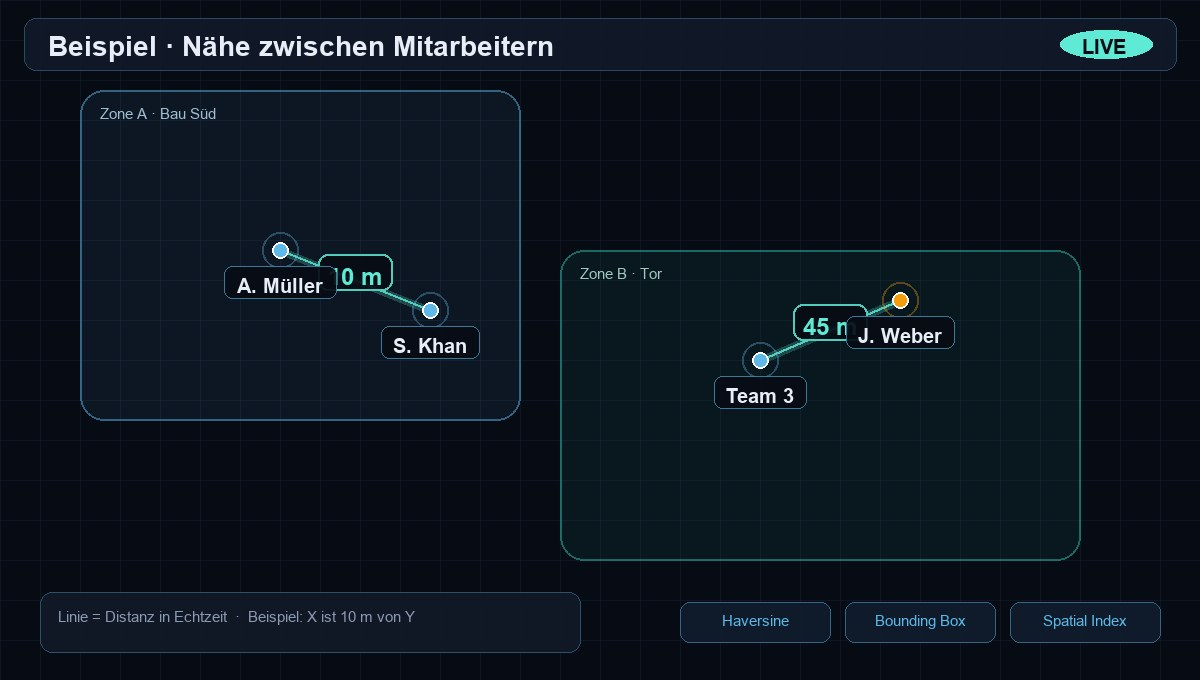
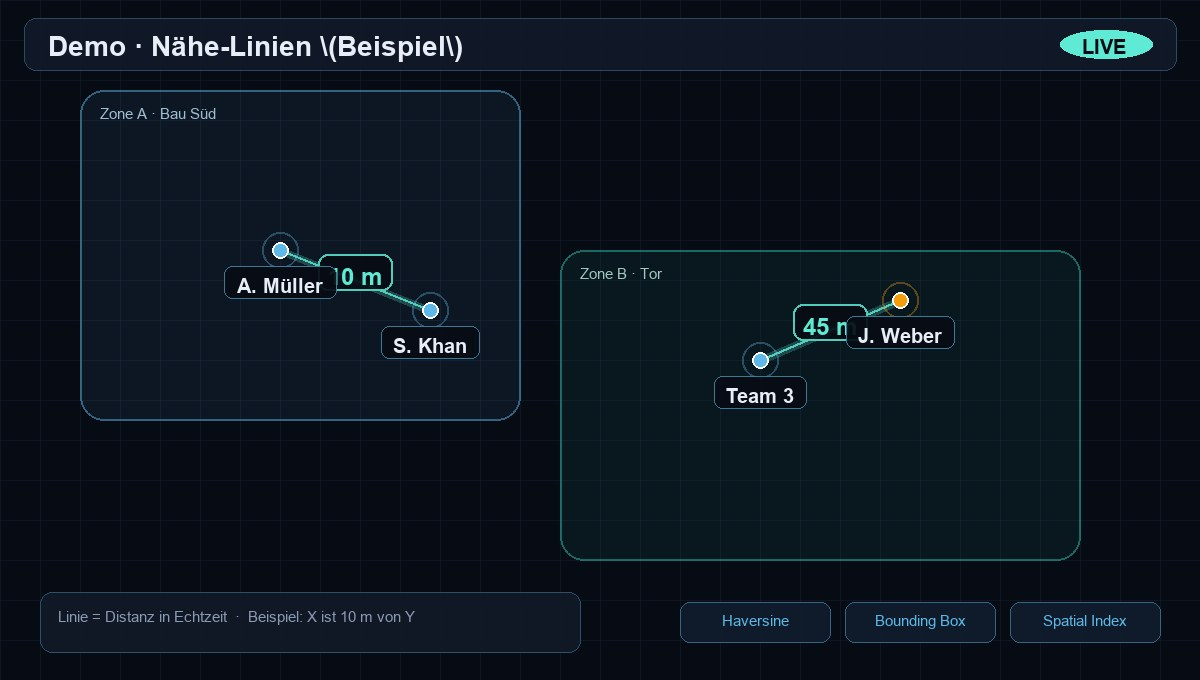
Clarify Live Map proximity graphic is a demo without real employees.

Changed region(s): [[0.0308, 0.0309, 0.4625, 0.0926]]

diff --git a/ar/index.html b/ar/index.html
@@ -285,7 +285,7 @@
             <a href="#contact" class="btn btn-primary">اعرض الخريطة الحية في العرض</a>
             <a href="#" class="btn btn-outline" data-login>افتح المنصة</a>
           </div>
-          <p class="livemap-note">حجة البيع: ليس فقط «من في الموقع» – بل «من يبعد كم عن من».</p>
+          <p class="livemap-note">يُعرض هنا كعرض توضيحي للميزة – وعندما يكون الموظفون مباشرين يظهرون على الخريطة بمسافات حقيقية.</p>
         </div>
 
         <div class="livemap-visual">
@@ -295,8 +295,8 @@
               <em>مثال · خطوط القرب</em>
               <b class="livemap-pulse-dot">LIVE</b>
             </div>
-            <img src="../assets/livemap-proximity-example.jpg?v=1" alt="مثال: خطوط القرب بين الموظفين مع المسافة بالمتر" width="1200" height="680" loading="lazy" decoding="async">
-            <figcaption>مثال: خط بين موظفين مع المسافة – مثلاً 10&nbsp;م أو 45&nbsp;م</figcaption>
+            <img src="../assets/livemap-proximity-example.jpg?v=2" alt="مثال توضيحي: خطوط القرب بين الموظفين مع المسافة بالمتر" width="1200" height="680" loading="lazy" decoding="async">
+            <figcaption>مثال توضيحي (لا موظفون حقيقيون بعد): هكذا تظهر خطوط القرب مع المسافة – مثلاً 10&nbsp;م</figcaption>
           </figure>
           <figure class="livemap-shot livemap-shot-secondary">
             <img src="../assets/livemap-screenshot-1.jpg?v=1" alt="خريطة WorkPass الحية مع المواقع على الخريطة" width="1024" height="488" loading="lazy" decoding="async">

diff --git a/index.html b/index.html
@@ -723,7 +723,7 @@
             <a href="#kontakt" class="btn btn-primary">Live Map in der Demo zeigen</a>
             <a href="#" class="btn btn-outline" data-login>Plattform öffnen</a>
           </div>
-          <p class="livemap-note">Das Verkaufsargument: nicht nur „wer ist vor Ort“ – sondern „wer ist wie nah an wem“.</p>
+          <p class="livemap-note">Aktuell als Funktions-Demo auf der Website – sobald Mitarbeiter live sind, erscheinen sie mit echten Distanzen auf der Karte.</p>
         </div>
 
         <div class="livemap-visual">
@@ -733,8 +733,8 @@
               <em>Beispiel · Nähe-Linien</em>
               <b class="livemap-pulse-dot">LIVE</b>
             </div>
-            <img src="assets/livemap-proximity-example.jpg?v=1" alt="Beispiel: Nähe-Linien zwischen Mitarbeitern mit Distanz in Metern" width="1200" height="680" loading="lazy" decoding="async">
-            <figcaption>Beispiel: Linie zwischen Mitarbeitern mit Distanz – z.&nbsp;B. 10&nbsp;m oder 45&nbsp;m</figcaption>
+            <img src="assets/livemap-proximity-example.jpg?v=2" alt="Demo-Beispiel: Nähe-Linien zwischen Mitarbeitern mit Distanz in Metern" width="1200" height="680" loading="lazy" decoding="async">
+            <figcaption>Demo-Beispiel (noch ohne echte Mitarbeiter): so erscheinen Nähe-Linien mit Distanz – z.&nbsp;B. 10&nbsp;m</figcaption>
           </figure>
           <figure class="livemap-shot livemap-shot-secondary">
             <img src="assets/livemap-screenshot-1.jpg?v=1" alt="WorkPass Workforce Live Map mit Standorten auf der Karte" width="1024" height="488" loading="lazy" decoding="async">

diff --git a/en/index.html b/en/index.html
@@ -411,7 +411,7 @@
             <a href="#contact" class="btn btn-primary">Show Live Map in a demo</a>
             <a href="#" class="btn btn-outline" data-login>Open platform</a>
           </div>
-          <p class="livemap-note">The sales hook: not only “who is on site” – but “who is how close to whom”.</p>
+          <p class="livemap-note">Shown here as a feature demo – once employees are live, they appear on the map with real distances.</p>
         </div>
 
         <div class="livemap-visual">
@@ -421,8 +421,8 @@
               <em>Example · proximity lines</em>
               <b class="livemap-pulse-dot">LIVE</b>
             </div>
-            <img src="../assets/livemap-proximity-example.jpg?v=1" alt="Example: proximity lines between employees with distance in meters" width="1200" height="680" loading="lazy" decoding="async">
-            <figcaption>Example: line between employees with distance – e.g. 10&nbsp;m or 45&nbsp;m</figcaption>
+            <img src="../assets/livemap-proximity-example.jpg?v=2" alt="Demo example: proximity lines between employees with distance in meters" width="1200" height="680" loading="lazy" decoding="async">
+            <figcaption>Demo example (no real employees yet): this is how proximity lines with distance appear – e.g. 10&nbsp;m</figcaption>
           </figure>
           <figure class="livemap-shot livemap-shot-secondary">
             <img src="../assets/livemap-screenshot-1.jpg?v=1" alt="WorkPass Workforce Live Map with sites on the map" width="1024" height="488" loading="lazy" decoding="async">

diff --git a/tools/make-livemap-example.py b/tools/make-livemap-example.py
@@ -89,7 +89,7 @@ draw.rounded_rectangle(
     outline=(94, 184, 232, 80),
     width=1,
 )
-draw.text((48, 30), "Beispiel · Nähe zwischen Mitarbeitern", fill=(232, 238, 247), font=font_title)
+draw.text((48, 30), "Demo · Nähe-Linien \(Beispiel\)", fill=(232, 238, 247), font=font_title)
 draw.rounded_rectangle((W - 140, 30, W - 48, 58), radius=999, fill=(94, 234, 212))
 draw.text((W - 118, 35), "LIVE", fill=(7, 11, 20), font=font_b)
 
@@ -128,3 +128,4 @@ draw.text((580, 265), "Zone B · Tor", fill=(160, 200, 190), font=font_small)
 out = os.path.join("assets", "livemap-proximity-example.jpg")
 img.convert("RGB").save(out, "JPEG", quality=88, optimize=True)
 print("saved", out, os.path.getsize(out))
+
